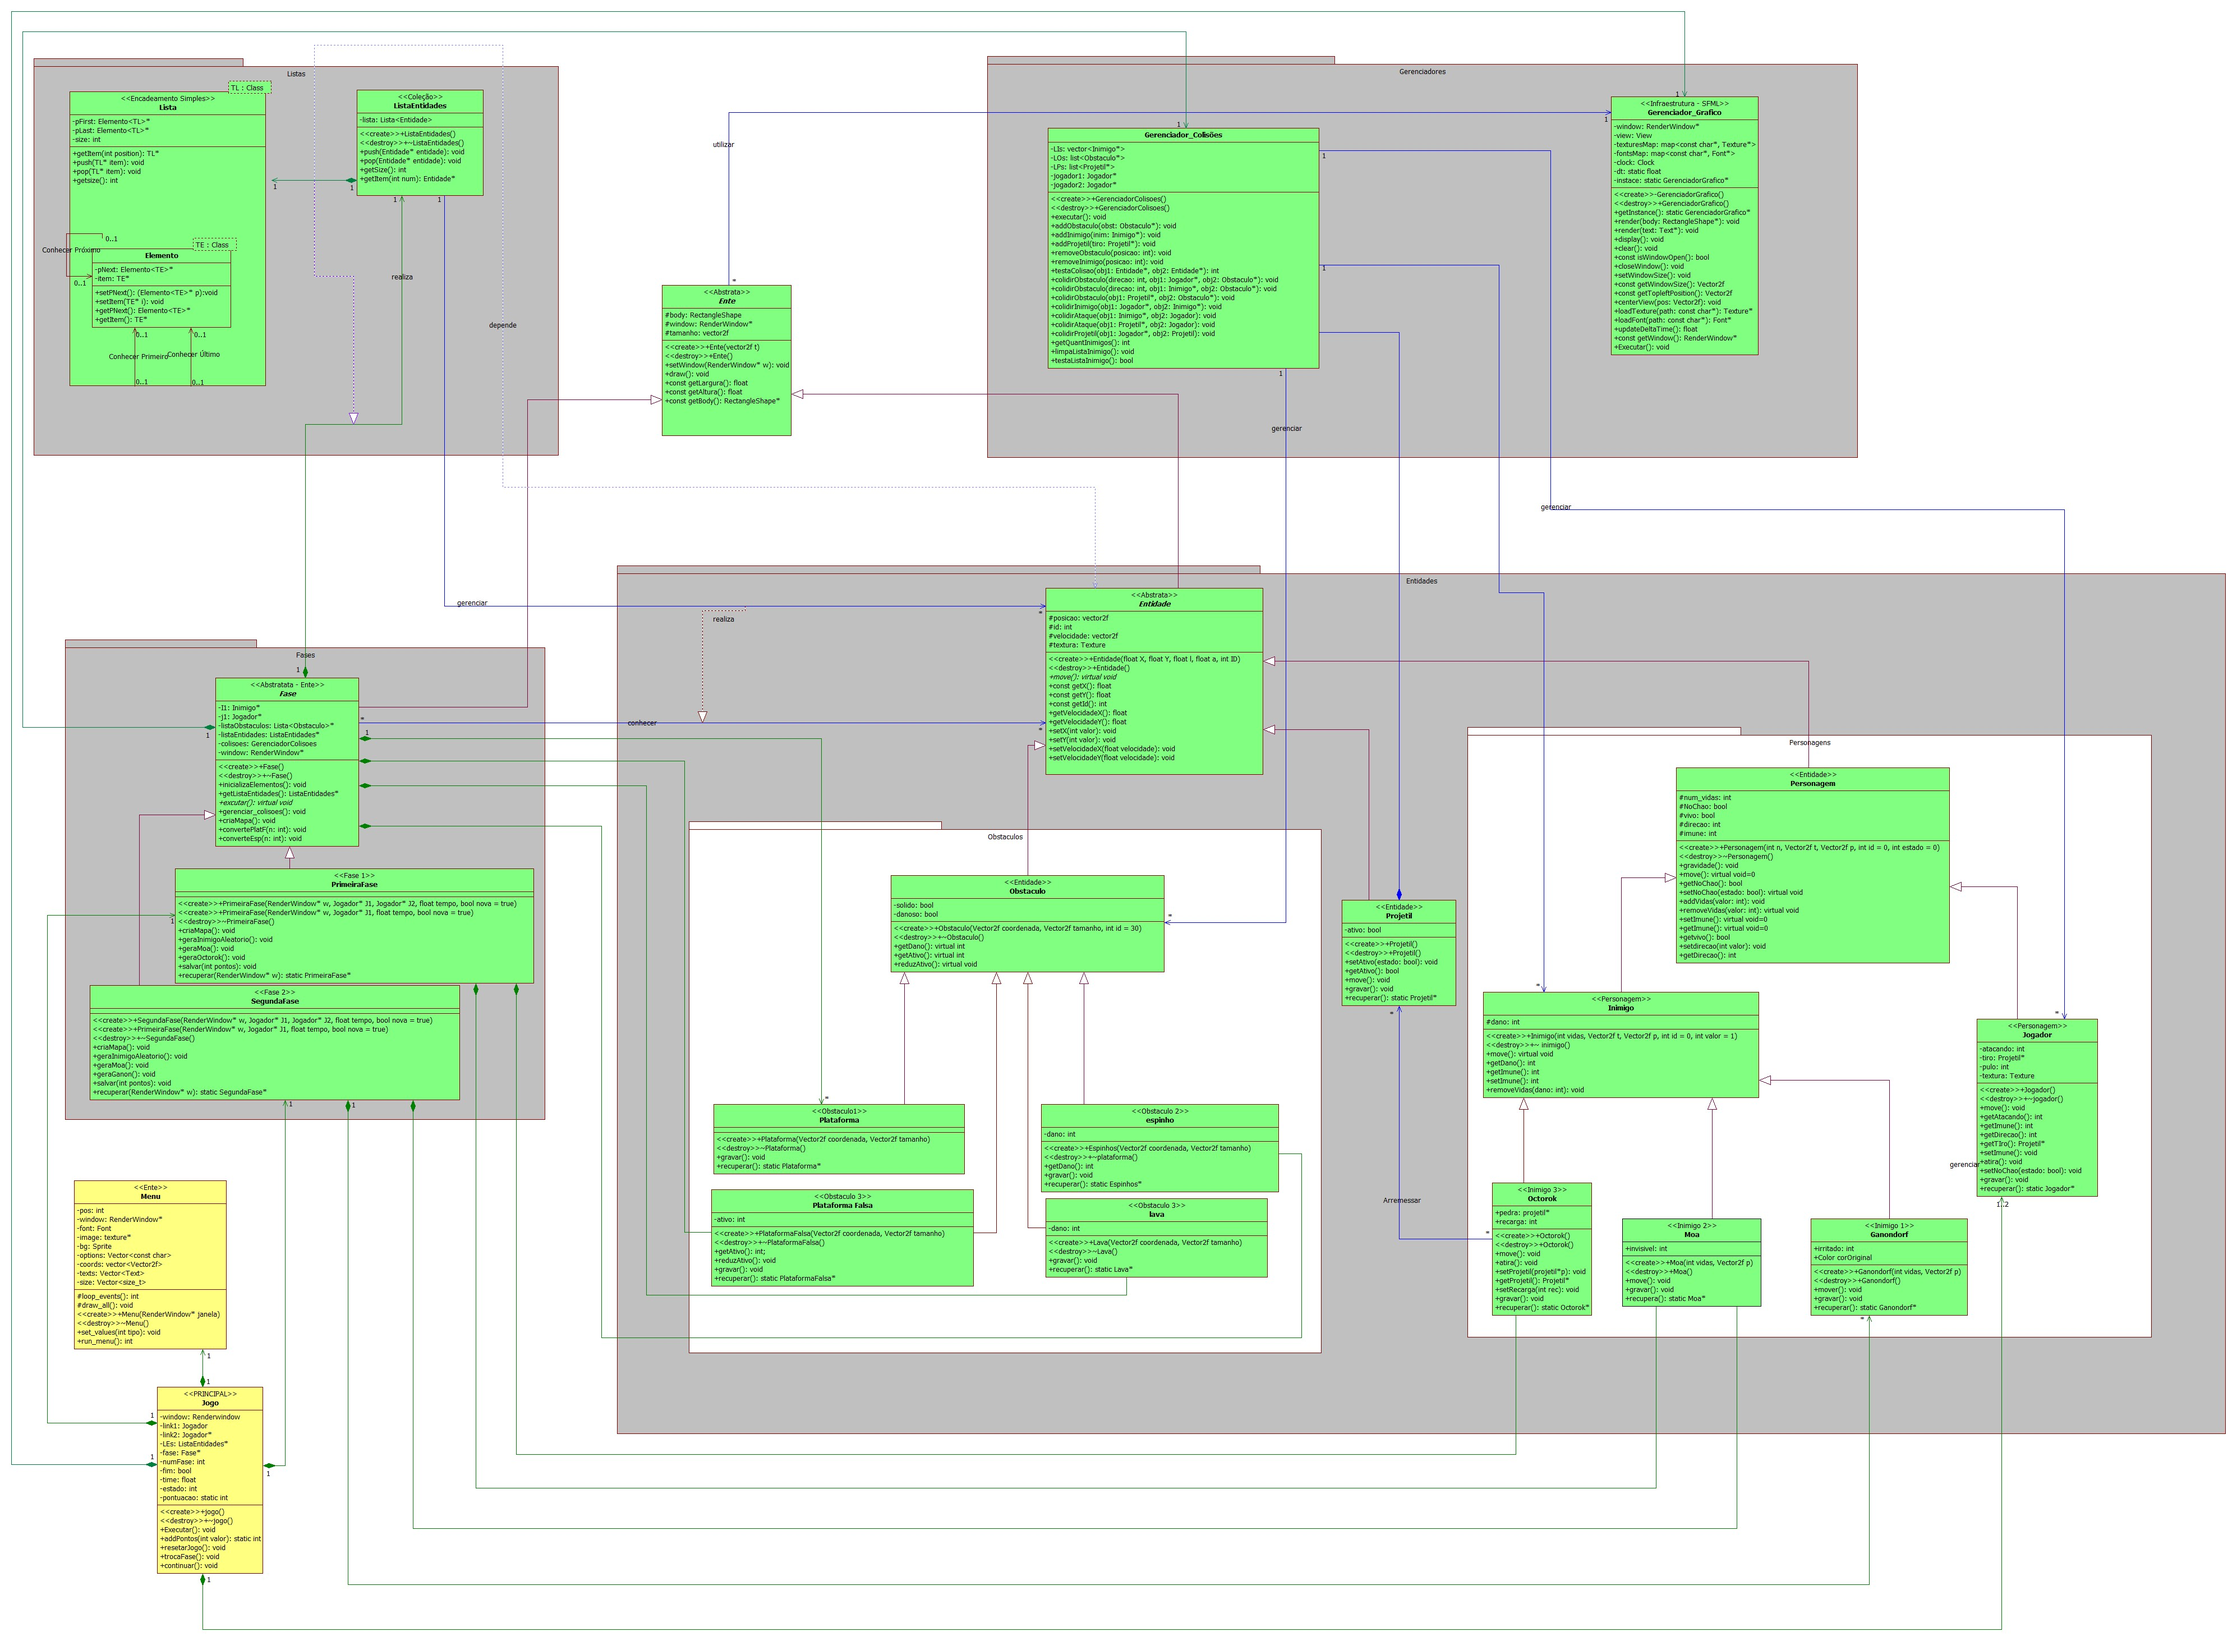
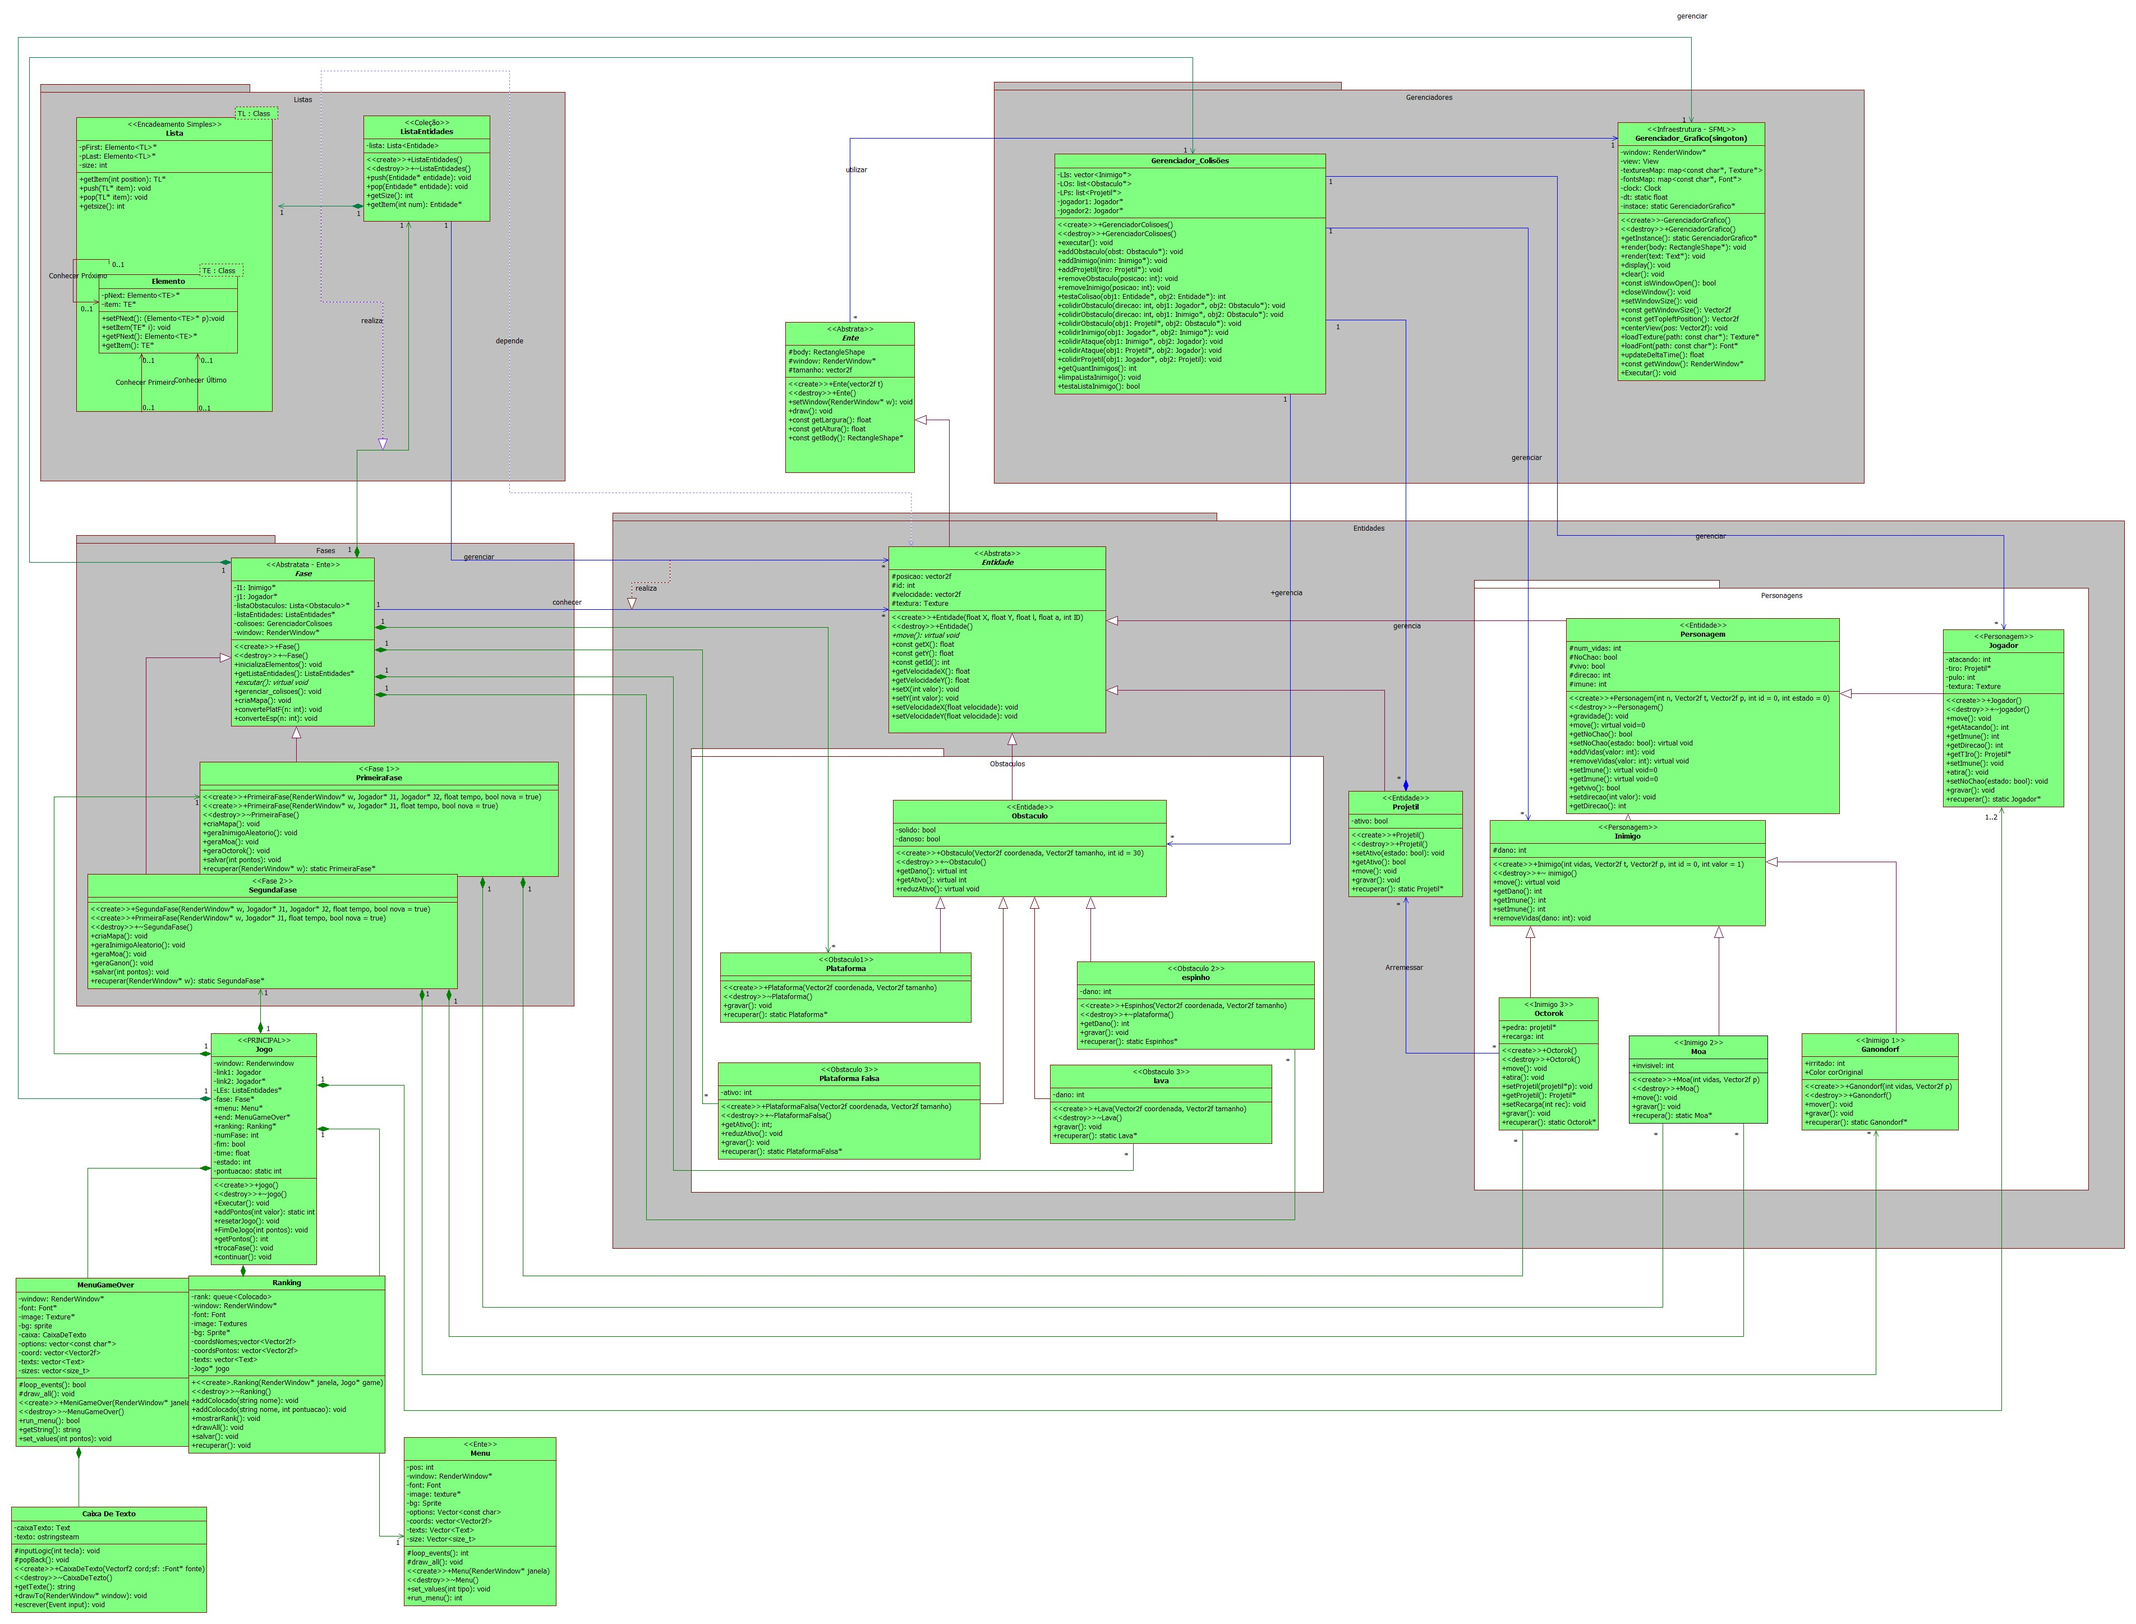
Vicor 27/11 2

diff --git a/Ranking.cpp b/Ranking.cpp
@@ -156,7 +156,7 @@ void Ranking::drawAll() {
 
 void Ranking::salva() {
     ofstream gravador("save/ranking.dat", ios::out);
-
+    int i = 0;
     if (!gravador)
     {
         return;
@@ -165,6 +165,10 @@ void Ranking::salva() {
         Colocado temp = rank.front();
         rank.pop();
         gravador << endl << temp.nome << ' ' << temp.pontos;
+        i++;
+    }
+    for (; i < 5; i++) {
+        gravador << endl << 0 << ' ' << 0;
     }
 
     gravador.close();
